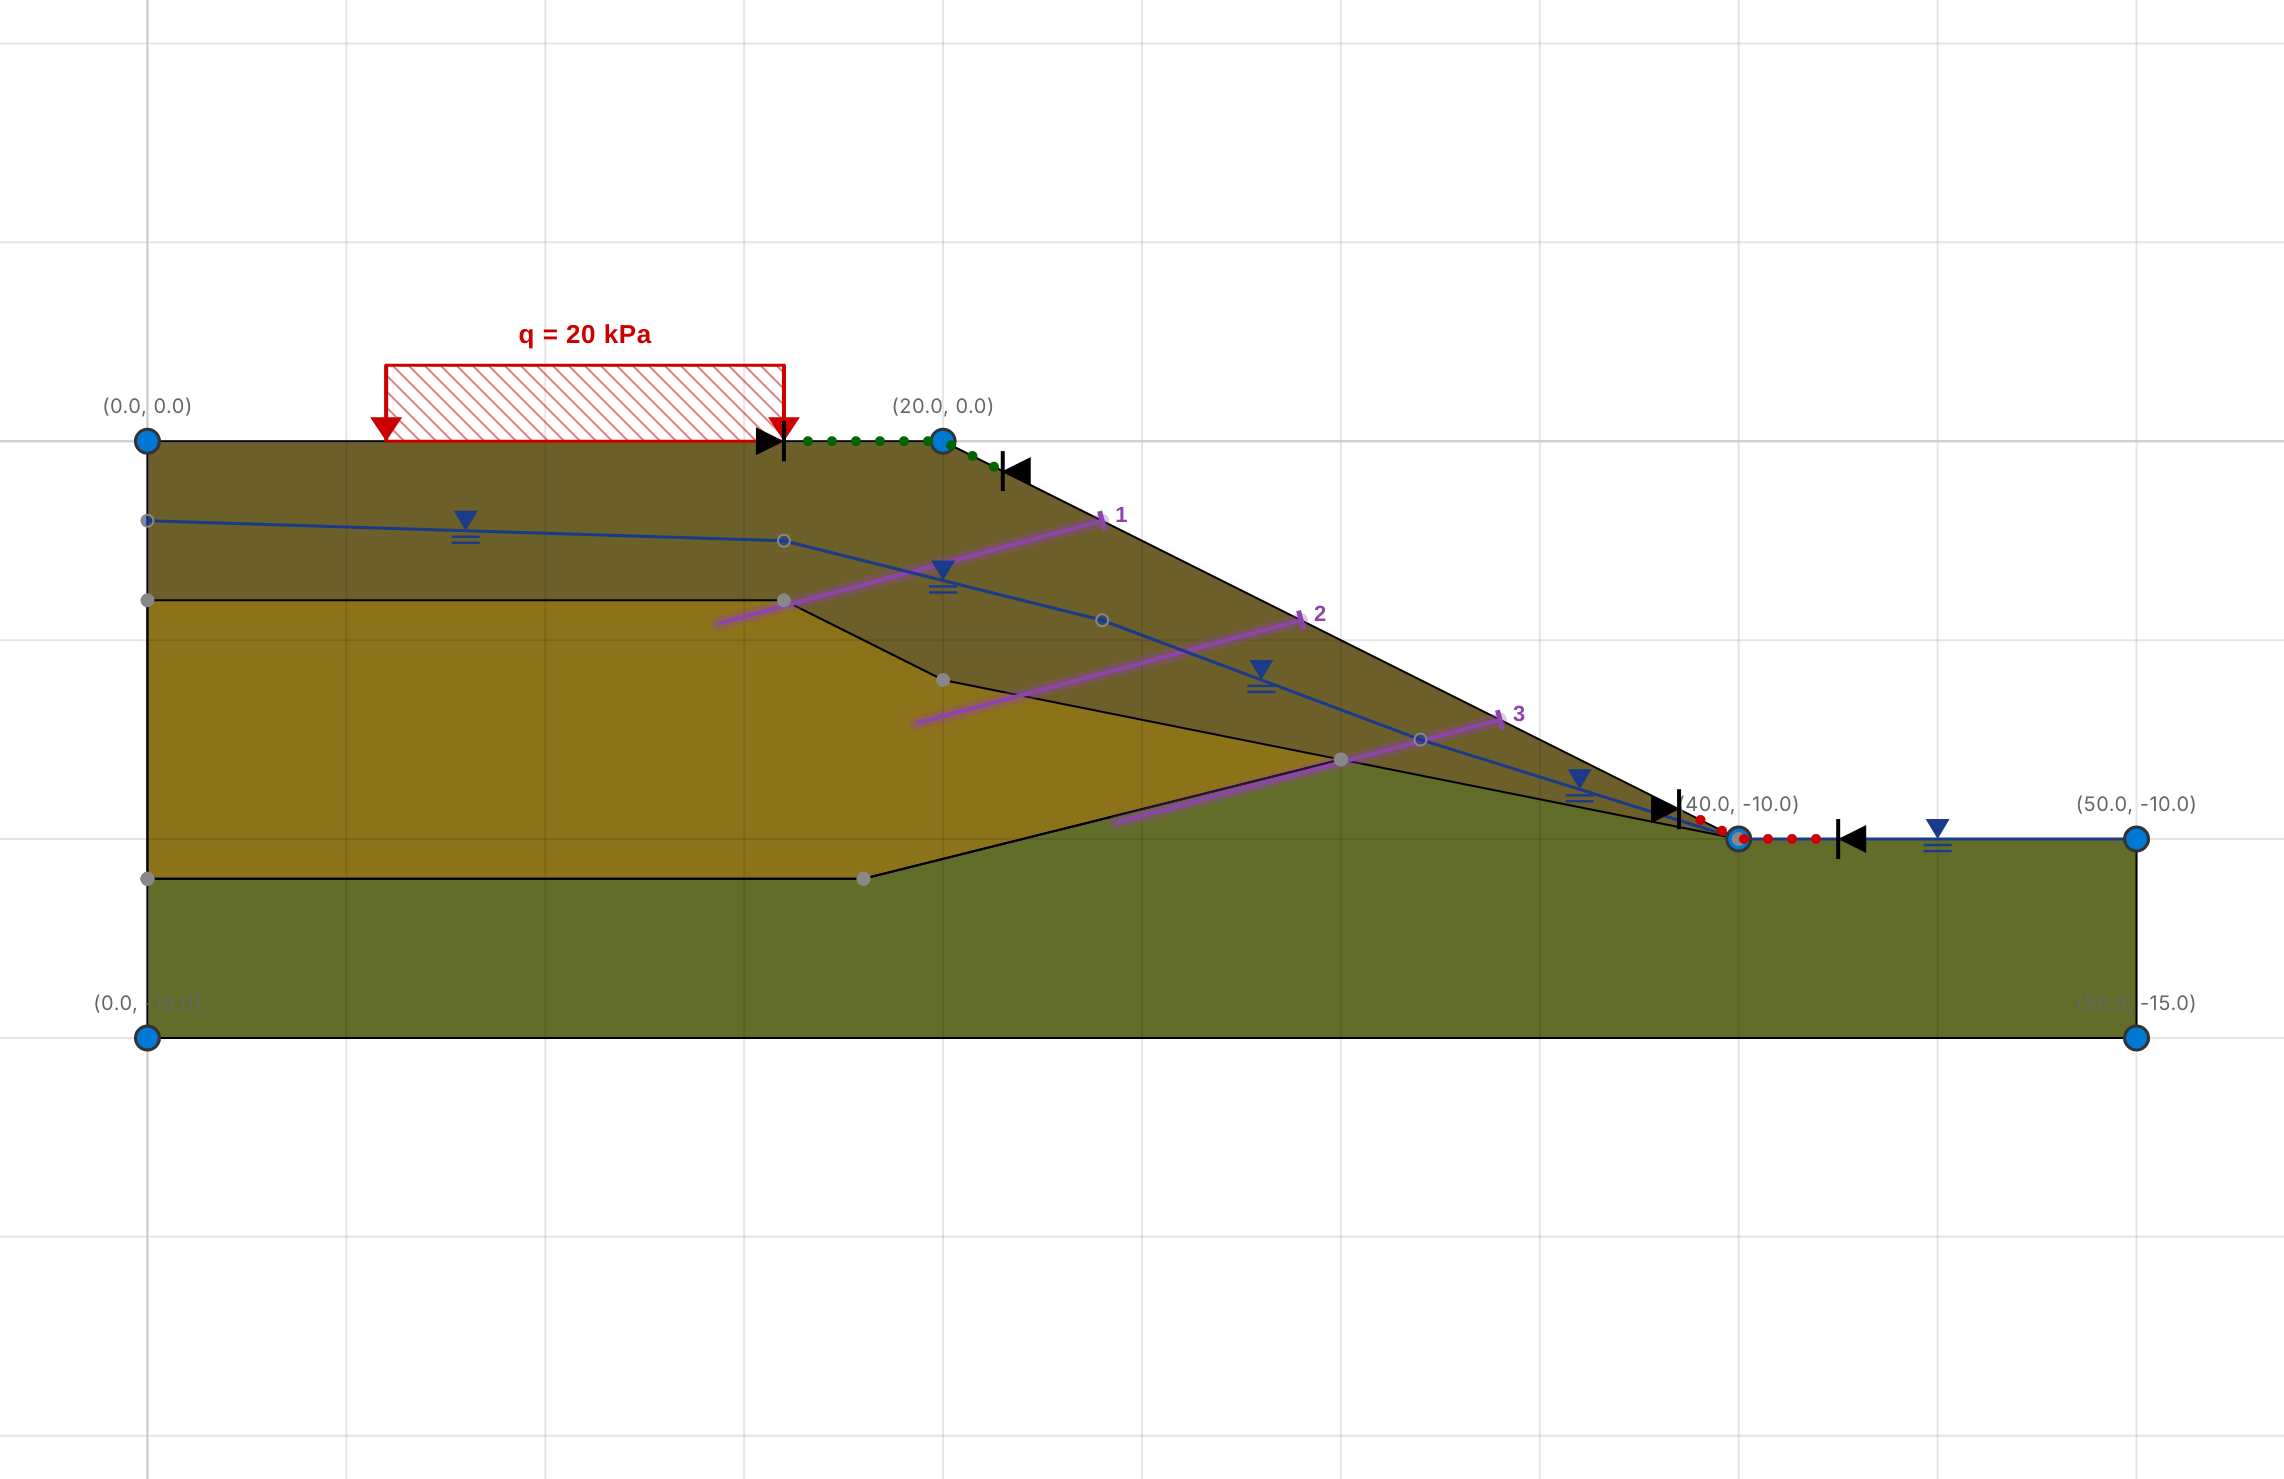
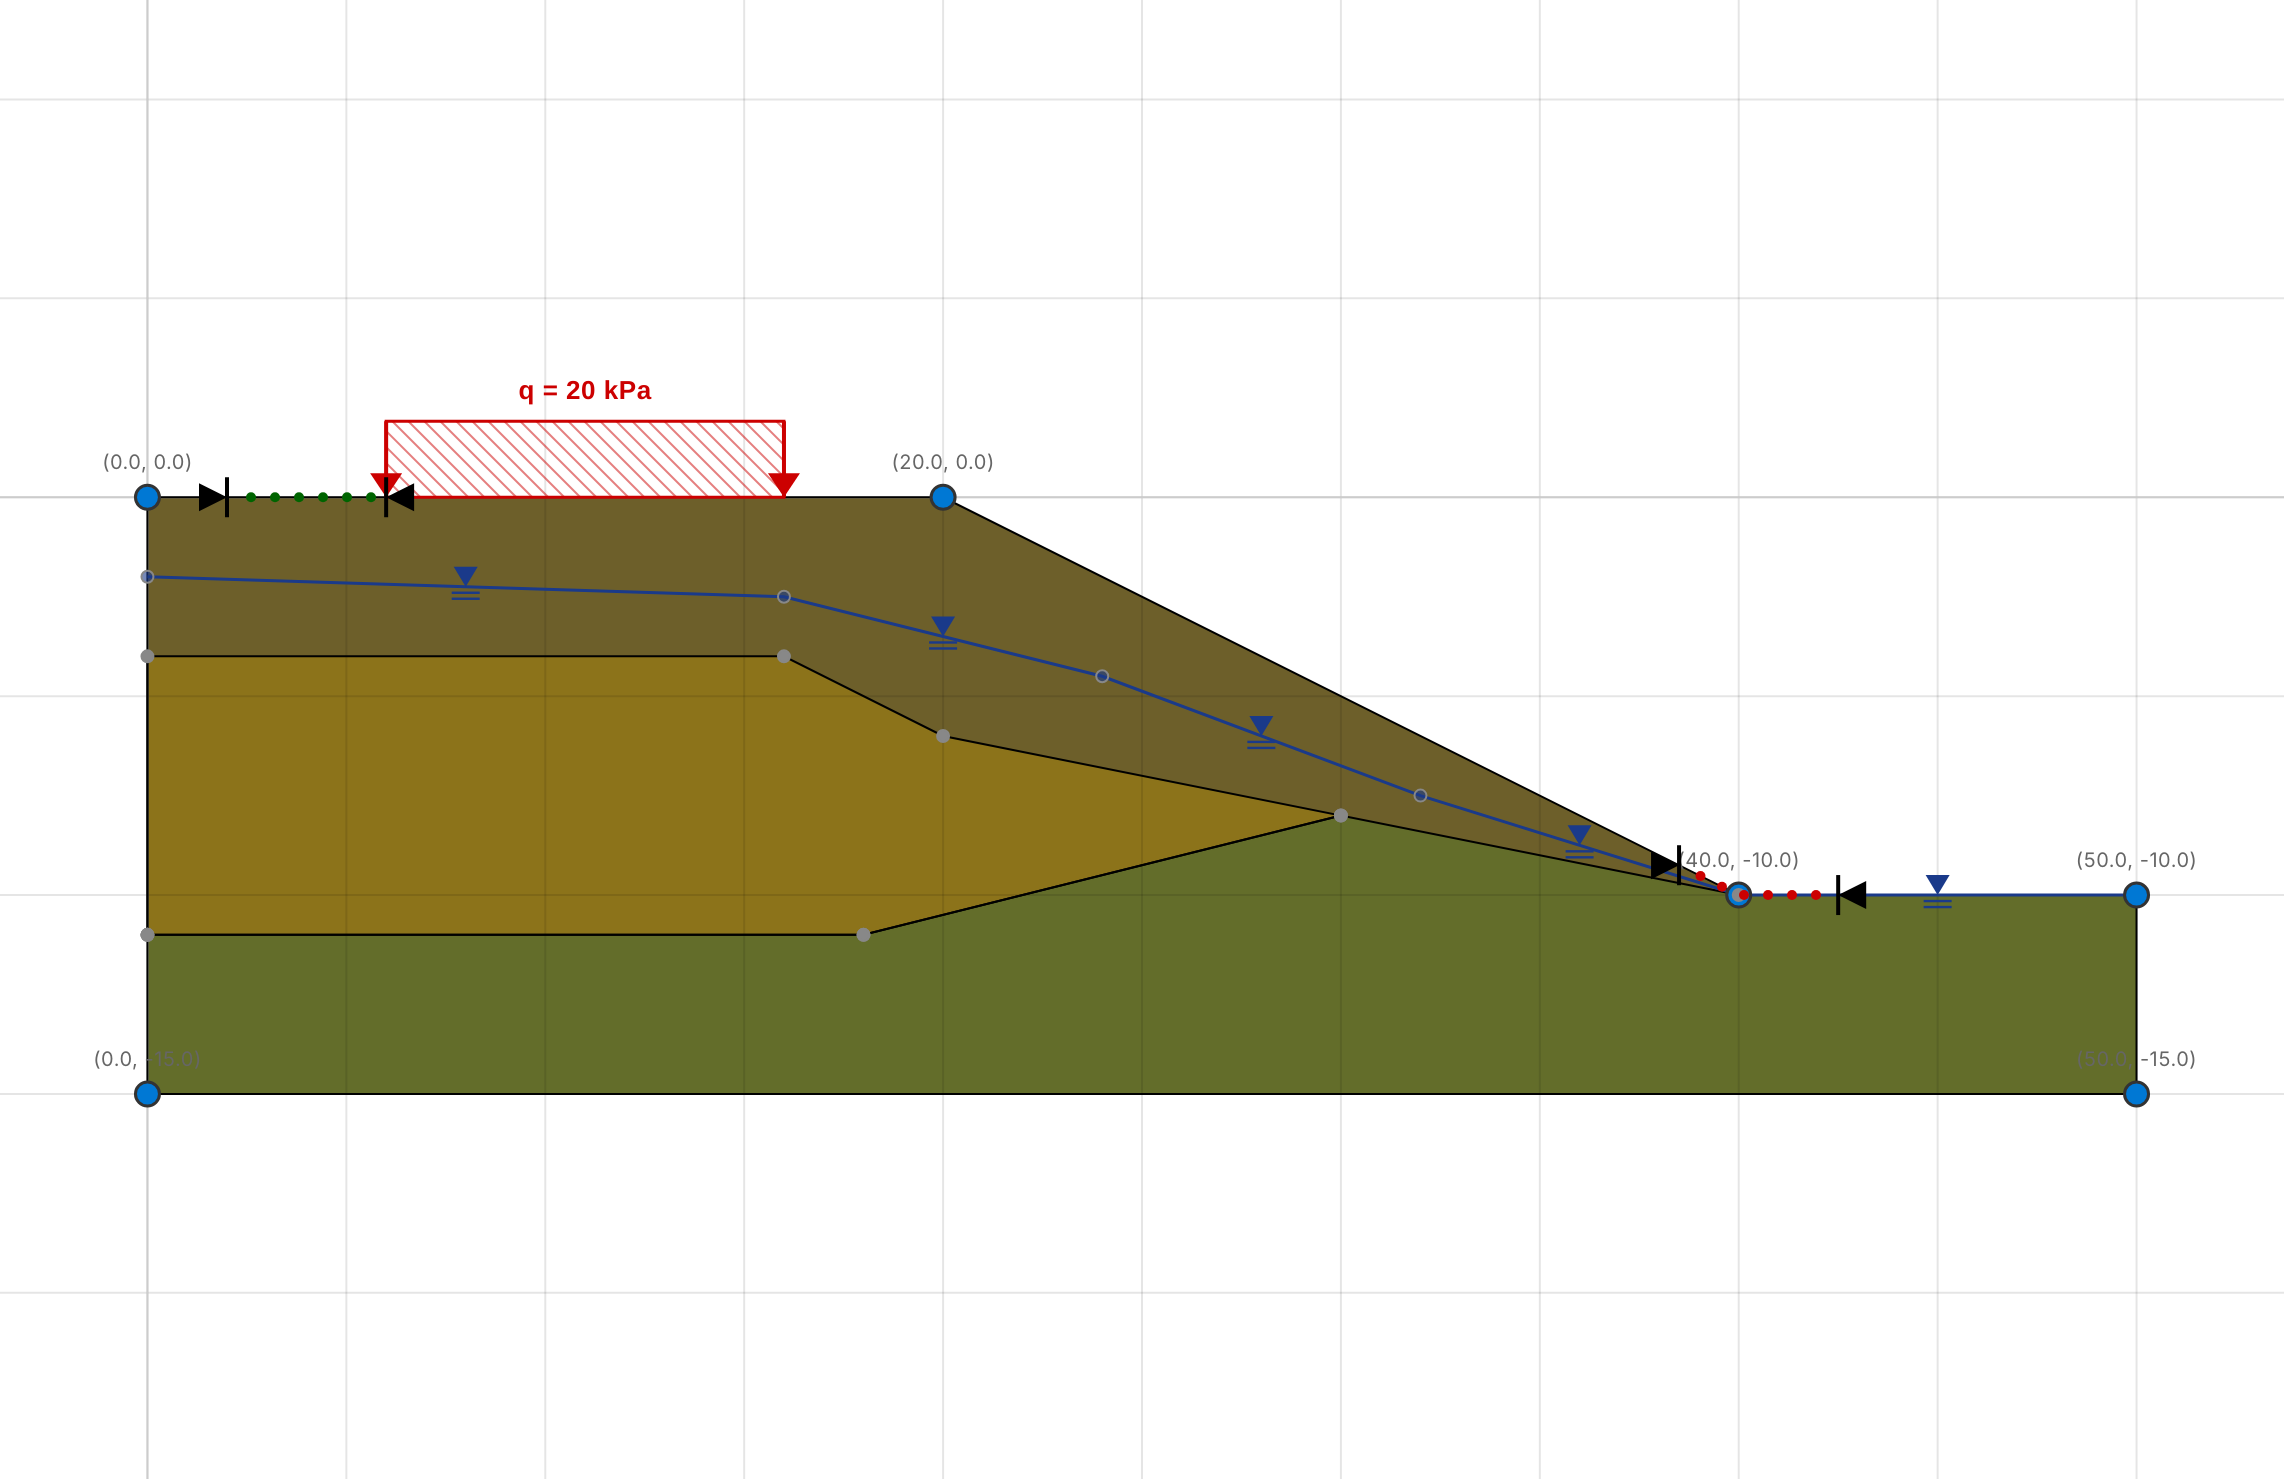
Website: no soil nails in the home page slope; circles take the whole load
The layered example on the home page keeps the water table and the crest
load but no longer has soil nails, and its circles enter behind the load
(entry 2-6 m), so the critical slip mass carries all of it (FOS 1.134).
The material table stays at the top right, clear of this circle.

Claude-Session: https://claude.ai/code/session_01Ku3vDTvhKJCcocceRyUbB3

Changed region(s): [[0.0311, 0.2177, 0.9637, 0.6531], [0.0311, 0.6842, 0.9637, 0.7465]]

diff --git a/packages/website/src/content/media-scenes.ts b/packages/website/src/content/media-scenes.ts
@@ -48,19 +48,15 @@ const MATERIAL_TABLE_LEFT: [string, ...unknown[]] = [
 
 /**
  * The layered benchmark slope made into a fuller problem for the home page:
- * a water table, a load on the crest and three soil nails.
+ * a water table and a load on the crest, with the circles entering behind
+ * the load so that the slip mass carries all of it.
  */
 const SHOWCASE: [string, ...unknown[]][] = [
-  ["setProjectInfo", { title: "Layered slope", subtitle: "Water table, 20 kPa crest load and three soil nails" }],
+  ["setProjectInfo", { title: "Layered slope", subtitle: "Water table and a 20 kPa load on the crest" }],
   ["addPiezoLine", [[0, -2], [16, -2.5], [24, -4.5], [32, -7.5], [40, -10], [50, -10]]],
   ["addUdl"],
   ["updateUdl", "$last:udls", { magnitude: 20, x1: 6, x2: 16 }],
-  ["addReinforcement", "nail"],
-  ["updateReinforcement", "$last:reinforcements", { x1: 24, y1: -2, x2: 14.341, y2: -4.588 }],
-  ["addReinforcement", "nail"],
-  ["updateReinforcement", "$last:reinforcements", { x1: 29, y1: -4.5, x2: 19.341, y2: -7.088 }],
-  ["addReinforcement", "nail"],
-  ["updateReinforcement", "$last:reinforcements", { x1: 34, y1: -7, x2: 24.341, y2: -9.588 }],
+  ["setAnalysisLimits", { entryLeftX: 2, entryRightX: 6 }],
 ];
 
 export const scenes: Scene[] = [
@@ -96,8 +92,8 @@ export const scenes: Scene[] = [
 
   {
     id: "edit-showcase",
-    title: "Layered Slope with Water, Load and Nails",
-    description: "Three soil layers, a water table, a load on the crest and three soil nails",
+    title: "Layered Slope with Water and Load",
+    description: "Three soil layers, a water table and a load on the crest",
     benchmark: "T-ACADS Non-Homogeneous",
     setup: { mode: "edit", onlyModel: true, actions: SHOWCASE },
     output: { type: "png", filename: "edit-showcase.png", crop: "canvas" },
@@ -218,13 +214,14 @@ export const scenes: Scene[] = [
   {
     id: "result-showcase",
     title: "Layered Slope Result",
-    description: "The critical surface of the layered slope with water, the crest load and the nail forces",
+    description: "The critical surface of the layered slope with water, under the whole crest load",
     benchmark: "T-ACADS Non-Homogeneous",
     setup: {
       mode: "result",
       onlyModel: true,
       runAnalysis: true,
-      actions: [...SHOWCASE, MATERIAL_TABLE_LEFT],
+      // The table stays at the top right, clear of this circle and its radii.
+      actions: SHOWCASE,
       resultView: {
         showSlices: true,
         showSoilColor: true,

diff --git a/packages/website/src/content/media.ts b/packages/website/src/content/media.ts
@@ -31,9 +31,9 @@ export const MEDIA = {
   ),
   annotations: generated("result-annotations.png", "Result view of a layered slope with a material table and text annotations",
   ),
-  showcaseResult: generated("result-showcase.png", "Result view: the critical circle of a layered slope with a water table, a crest load and the forces of three soil nails"),
+  showcaseResult: generated("result-showcase.png", "Result view: the critical circle of a layered slope with a water table, carrying the whole crest load"),
   materials: generated("edit-materials.png", "Edit view: a non-homogeneous slope with coloured material regions"),
-  showcase: generated("edit-showcase.png", "Edit view: a slope of three soil layers with a water table, a 20 kPa load on the crest and three soil nails"),
+  showcase: generated("edit-showcase.png", "Edit view: a slope of three soil layers with a water table and a 20 kPa load on the crest"),
   geometry: generated("edit-geometry.png", "Edit view: slope geometry with its boundary points"),
   waterTable: generated("edit-water-table.png", "Edit view: a slope with its piezometric line"),
   soilNails: media("/media/tutorials/soil-nails/02-model.png", "Edit view: a slope with three rows of soil nails"),

diff --git a/packages/website/src/pages/Home.tsx b/packages/website/src/pages/Home.tsx
@@ -224,8 +224,8 @@ function Verification() {
 const GALLERY = [
   { media: MEDIA.materials, caption: "Material regions of a non-homogeneous slope" },
   { media: MEDIA.allSurfaces, caption: "Every analysed surface, coloured by factor of safety" },
-  { media: MEDIA.showcase, caption: "Layered slope with a water table, a crest load and soil nails" },
-  { media: MEDIA.showcaseResult, caption: "Critical surface with the nail forces" },
+  { media: MEDIA.showcase, caption: "Layered slope with a water table and a crest load" },
+  { media: MEDIA.showcaseResult, caption: "Critical surface under the whole crest load" },
 ];
 
 function Gallery() {
